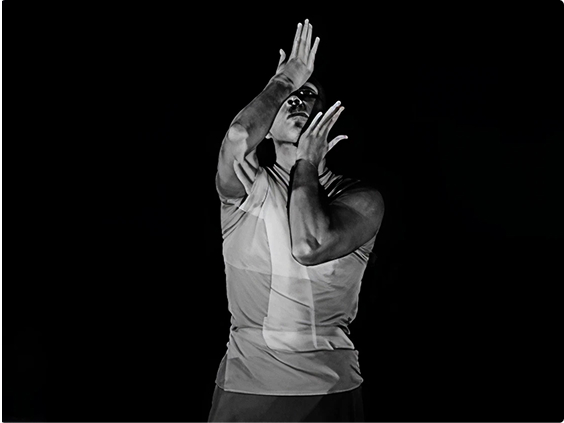
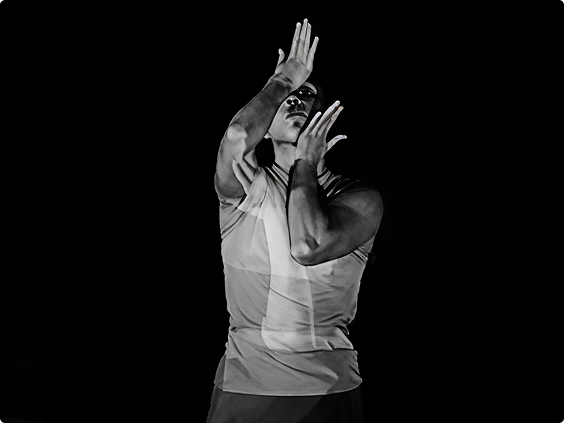
Update e.id image, circle founder portraits at 140px, reduce column gap to 30px

diff --git a/company/index.html b/company/index.html
@@ -150,8 +150,9 @@
     border-left:2px solid var(--maroon);padding-left:12px;margin-bottom:26px}
 
   /* founders & team */
-  .founders-grid{display:grid;grid-template-columns:repeat(2,1fr);gap:48px}
-  .person-portrait{position:relative;aspect-ratio:3/4;overflow:hidden;margin-bottom:16px}
+  .founders-grid{display:grid;grid-template-columns:repeat(2,1fr);gap:30px}
+  .person-portrait{position:relative;width:140px;height:140px;border-radius:50%;
+    overflow:hidden;margin-bottom:16px}
   .person-name{font-family:var(--serif);font-weight:400;font-size:20px;line-height:1.1;margin:0 0 5px}
   .person-role{font:500 10.5px/1 var(--sans);letter-spacing:.16em;color:var(--maroon);
     text-transform:uppercase;margin-bottom:12px}